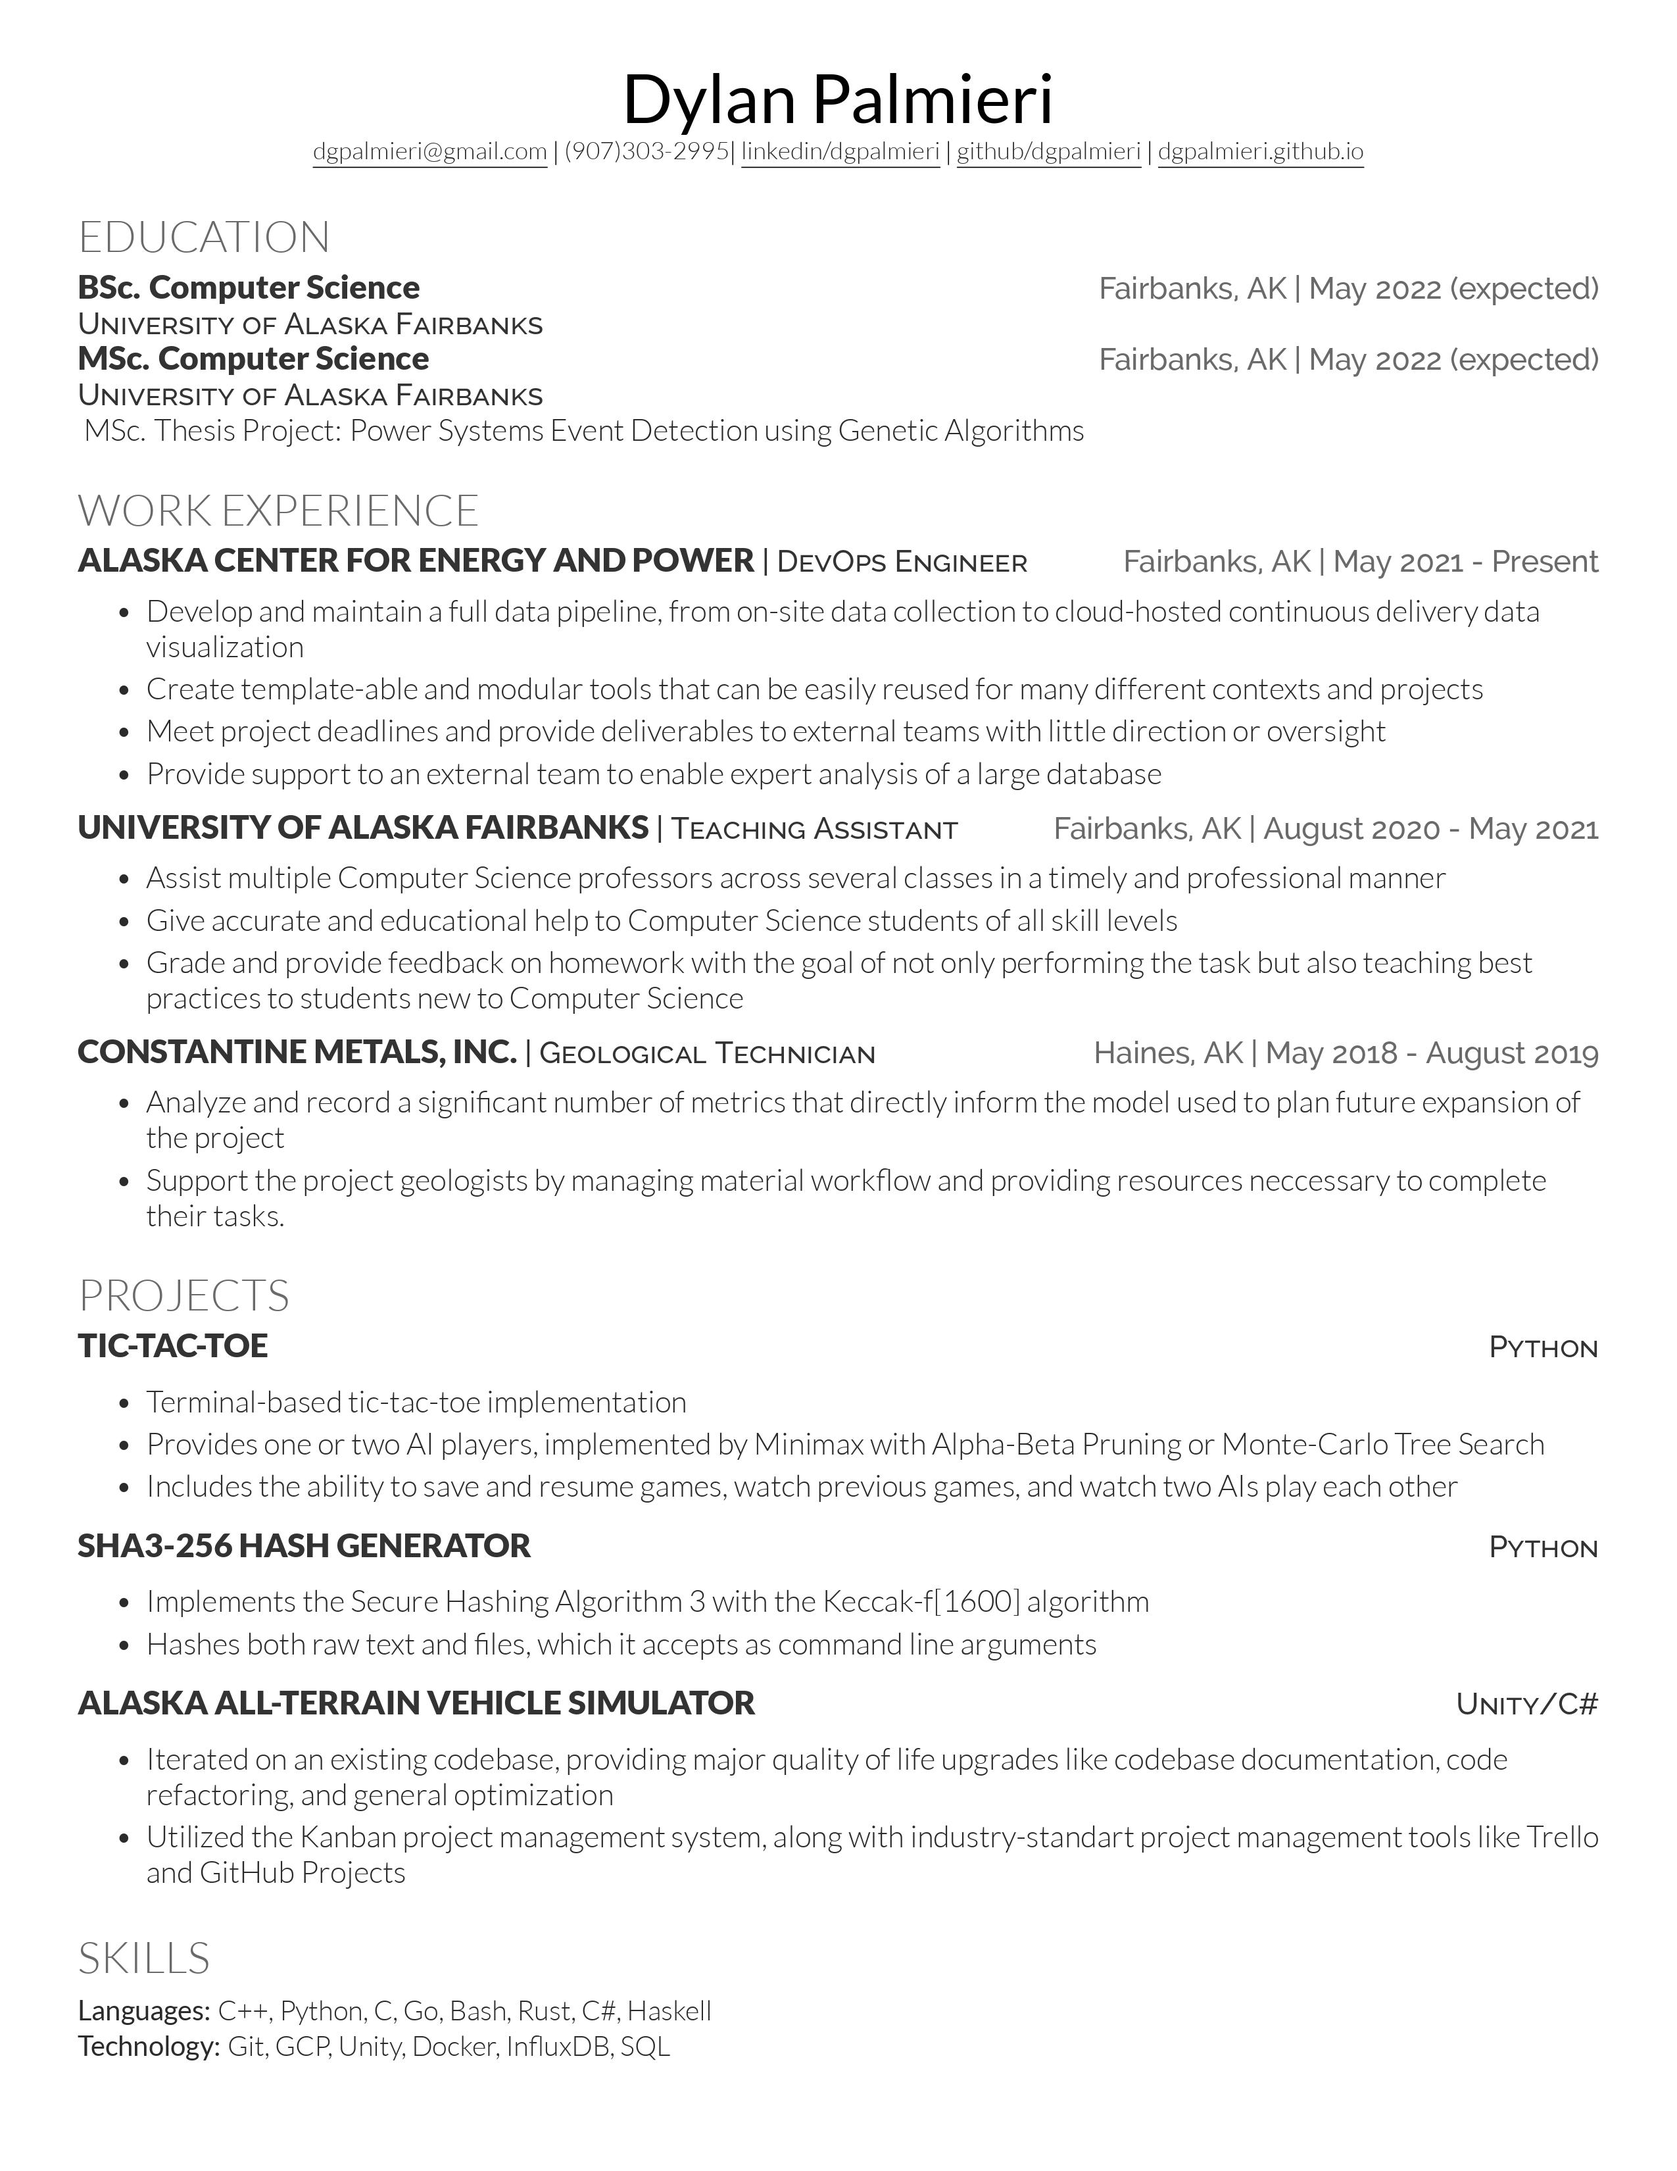
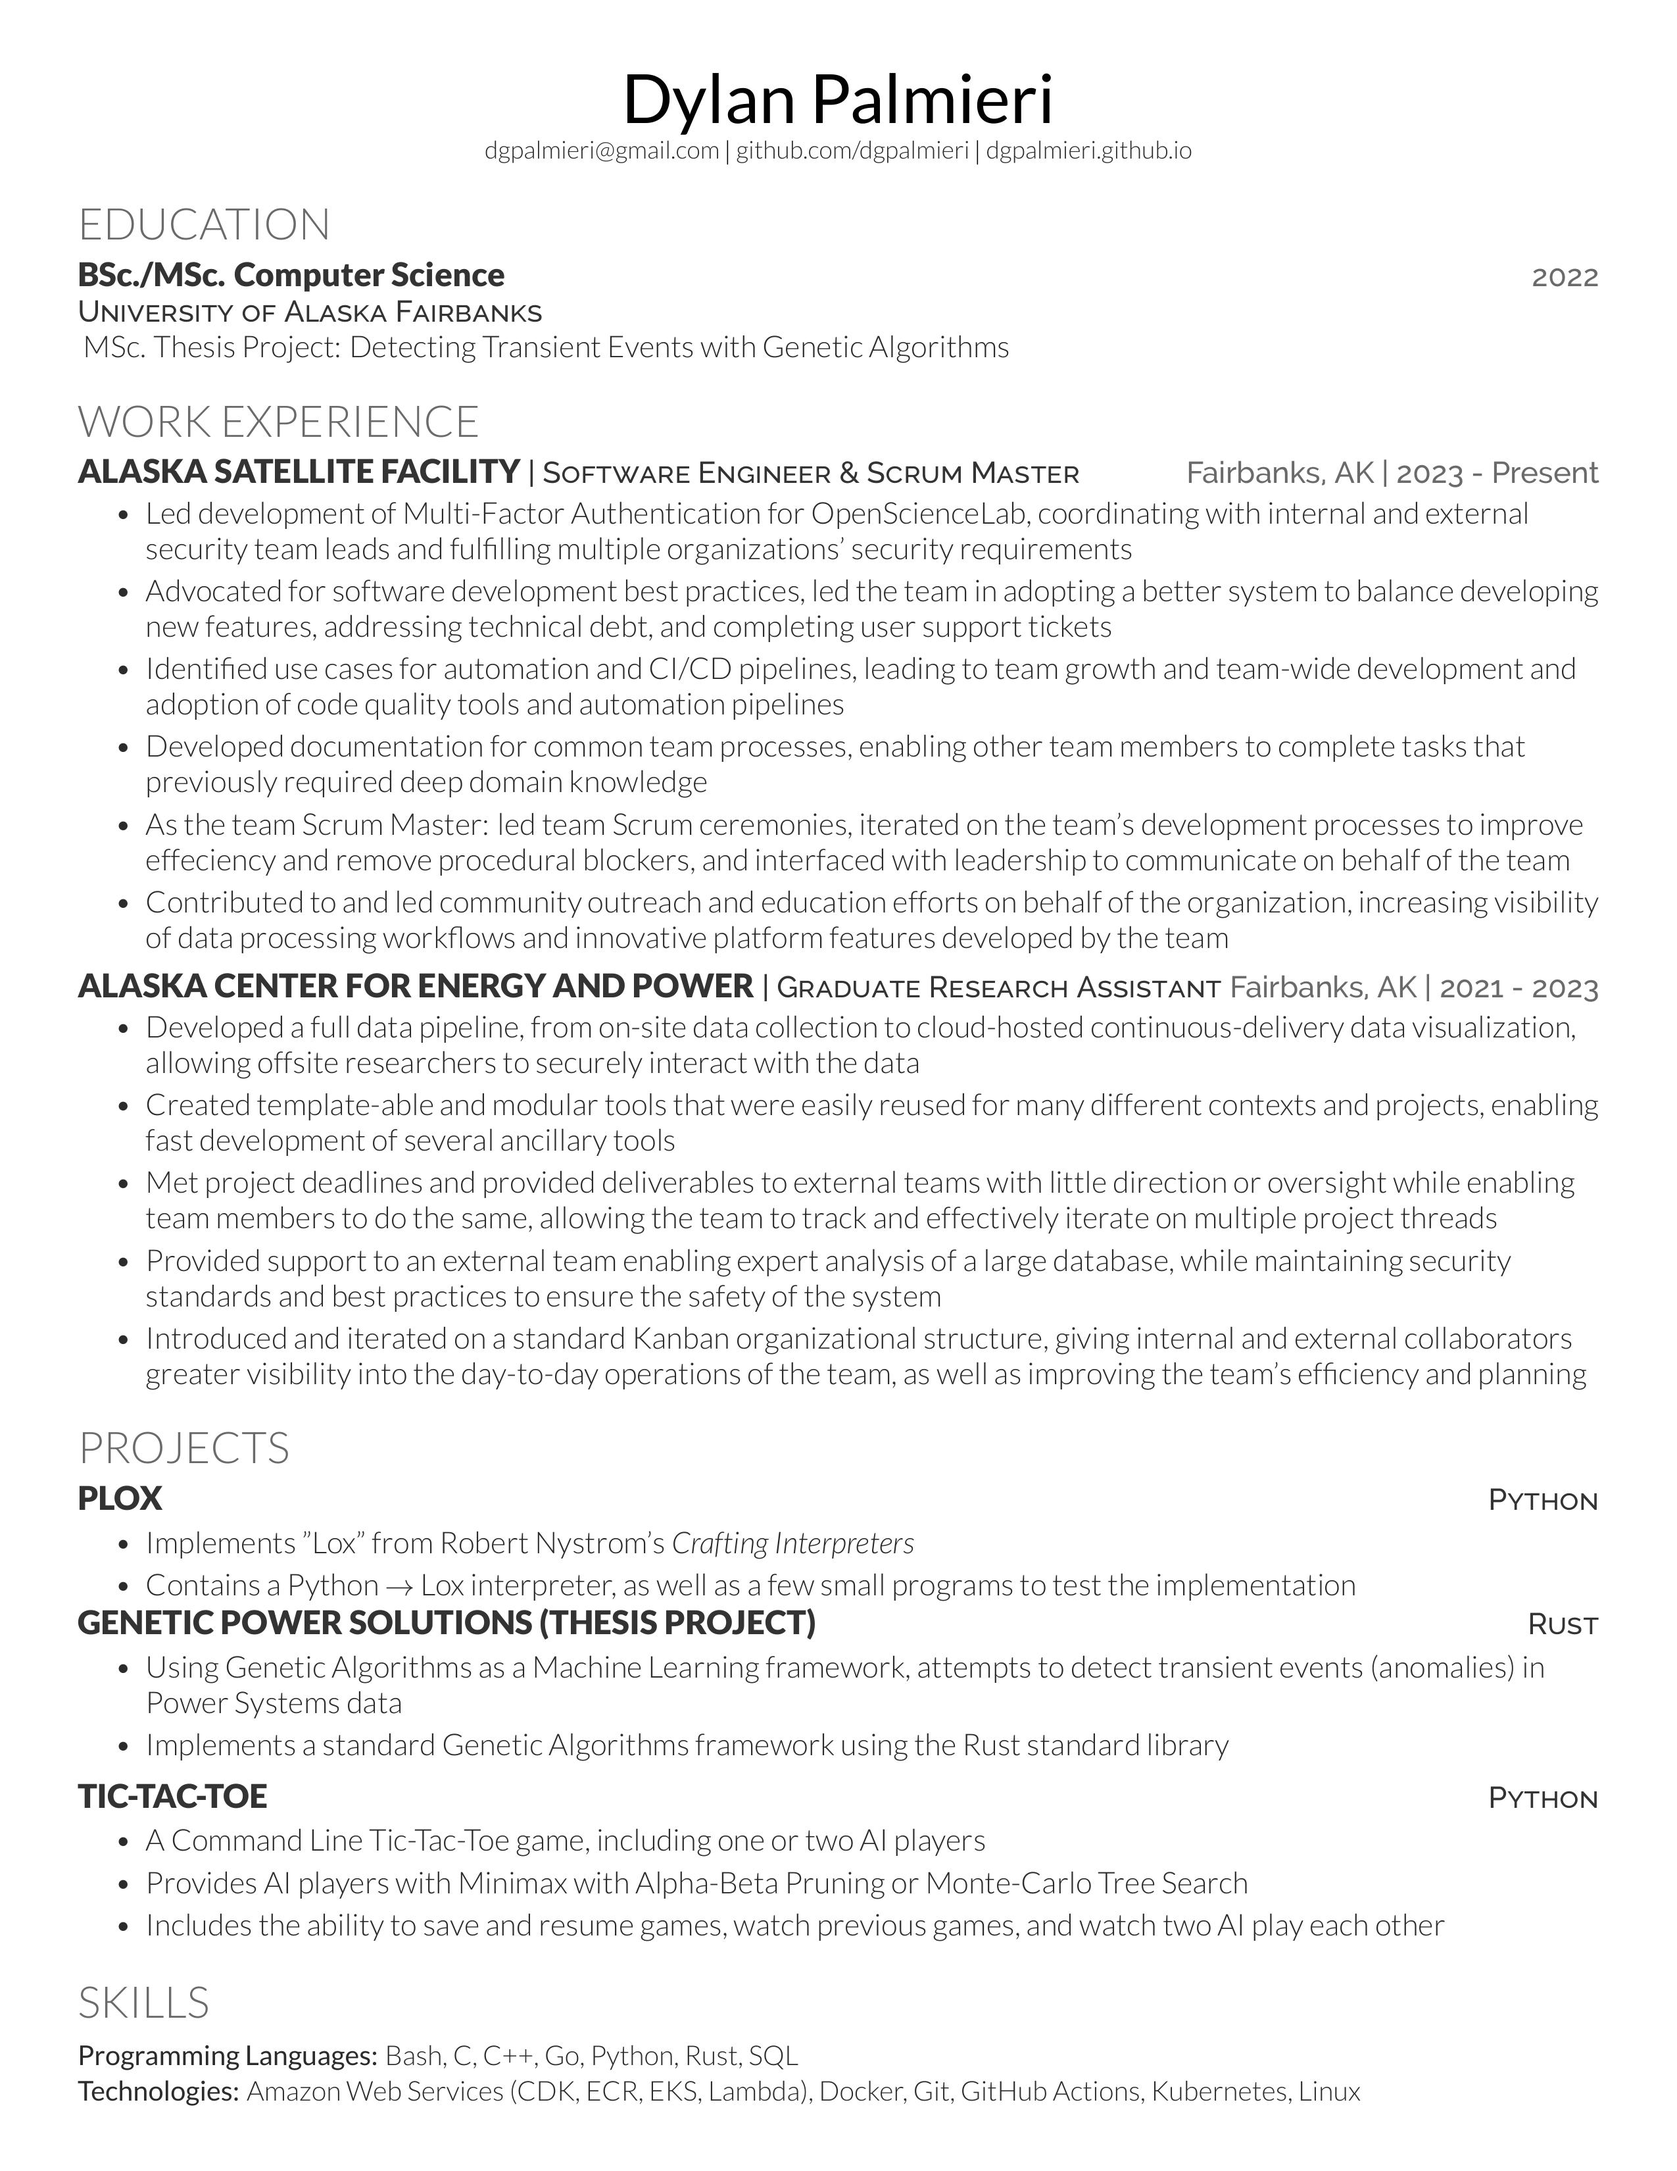
feat: update about-me and resume

diff --git a/content/about/about_me.md b/content/about/about_me.md
@@ -1,14 +1,13 @@
 ---
 title: "About Me"
-date: 2021-09-28T15:23:47-08:00
+date: 2025-10-01T12:45:32-08:00
 draft: false
 ---
 
-Hi! My name is Dylan, and I'm a Computer Science Master's student at the
-University of Alaska Fairbanks. I'm currently working at the
-[Alaska Center for Energy and Power](https://acep.uaf.edu/) as a Graduate
-Research Assistant, where I perform the duties of a DevOps Engineer.
-In my spare time, I'm also the Vice-President of the
-[UAF Cyber Security Club](https://csc.uaf.edu), where I focus primarily on
-Linux Security and obscure distros. Outside of computer science/security, I
-also enjoy film photography, playing guitar, and PC gaming.
+Hi! My name is Dylan, and I'm a Software Engineer at the
+[Alaska Satellite Facility](https://asf.alaska.edu), where I help maintain
+[OpenScienceLab](https://opensciencelab.asf.alaska.edu), a JupyterHub-based
+educational/research platform dedicated to processing Synthetic Aperture
+Radar data.
+
+Outside of work, I also enjoy film photography, playing guitar, and PC gaming.
